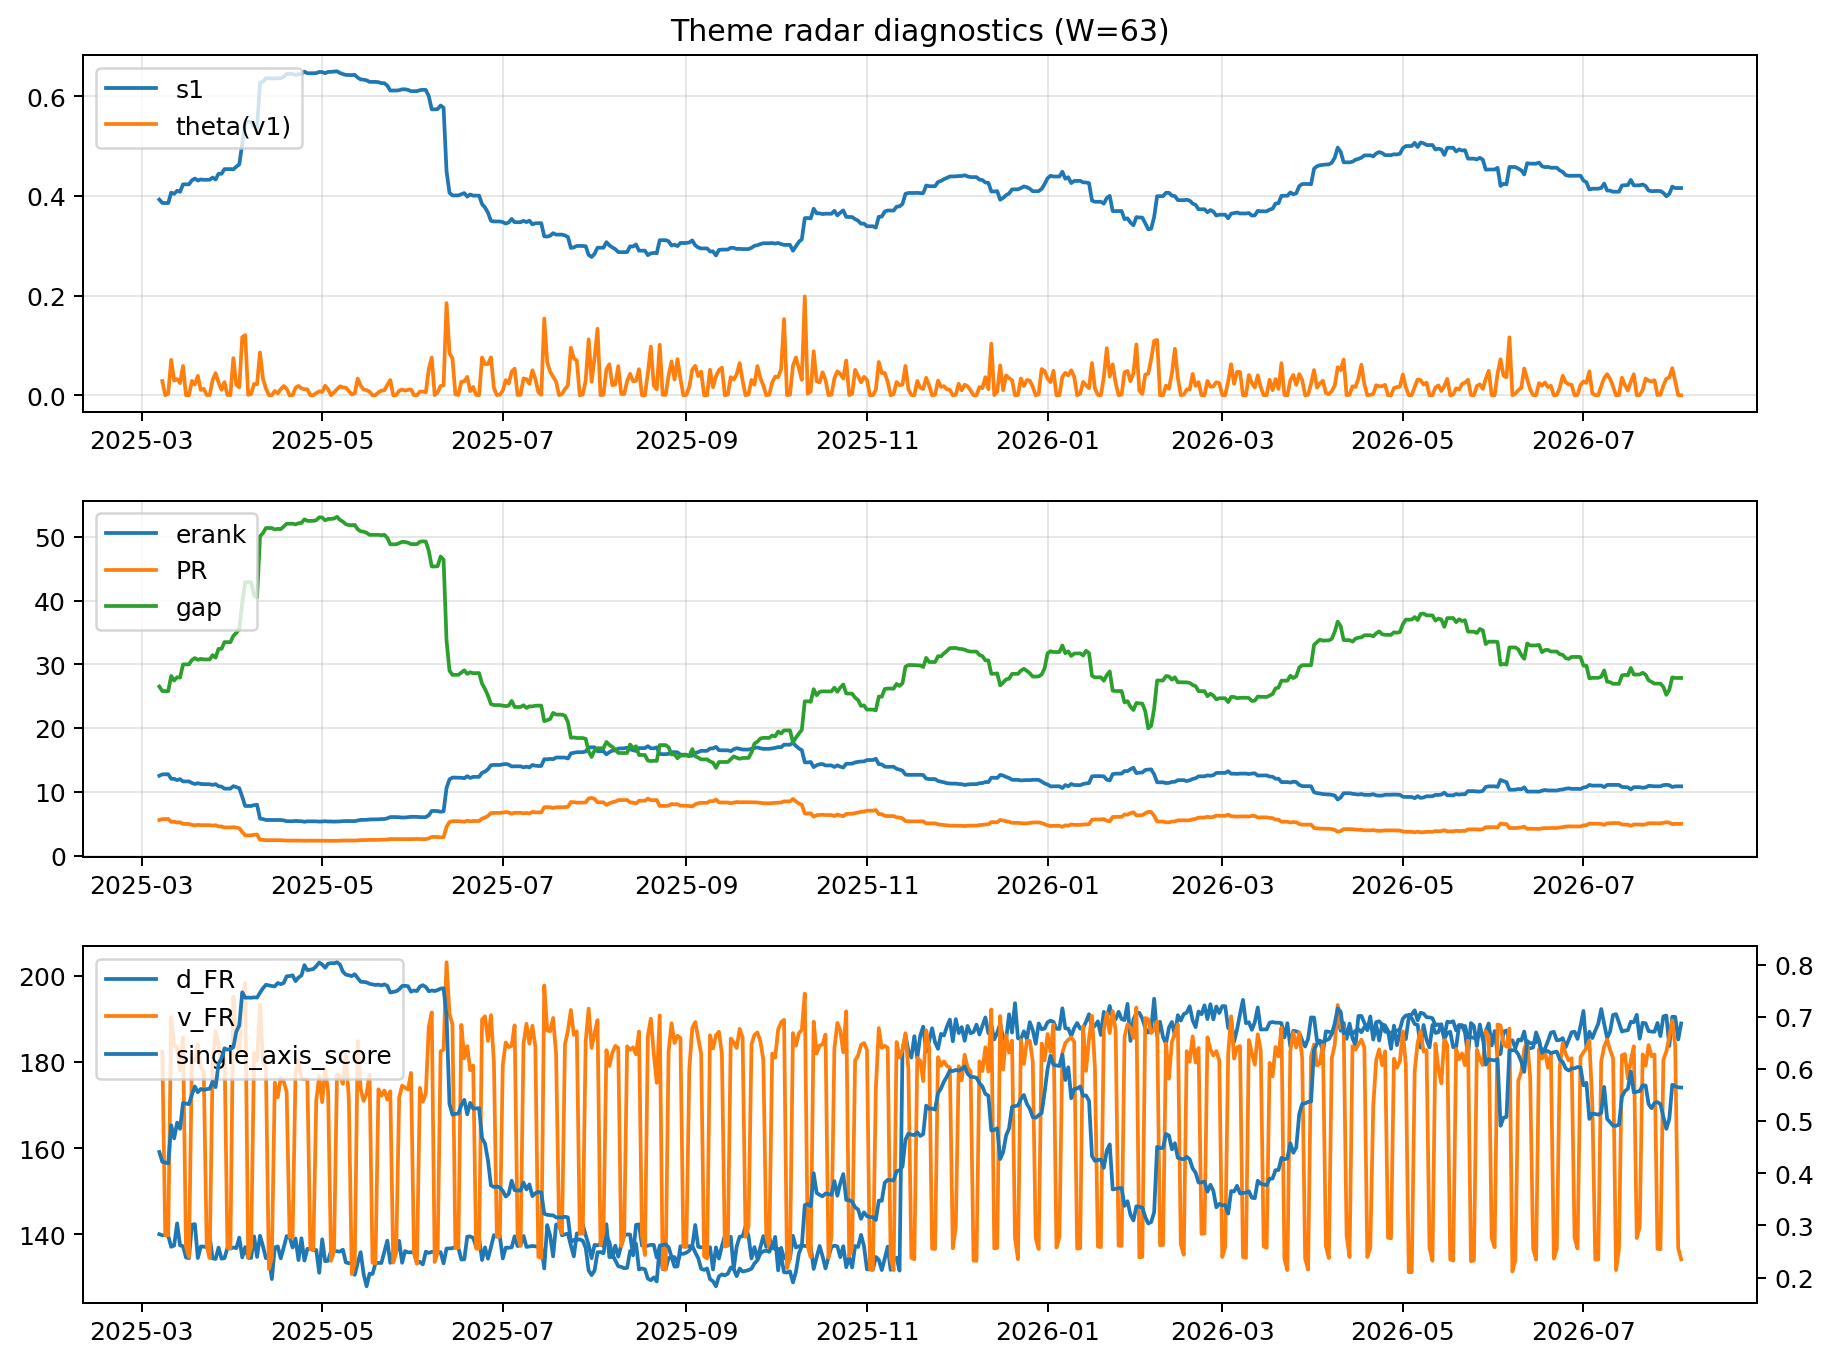
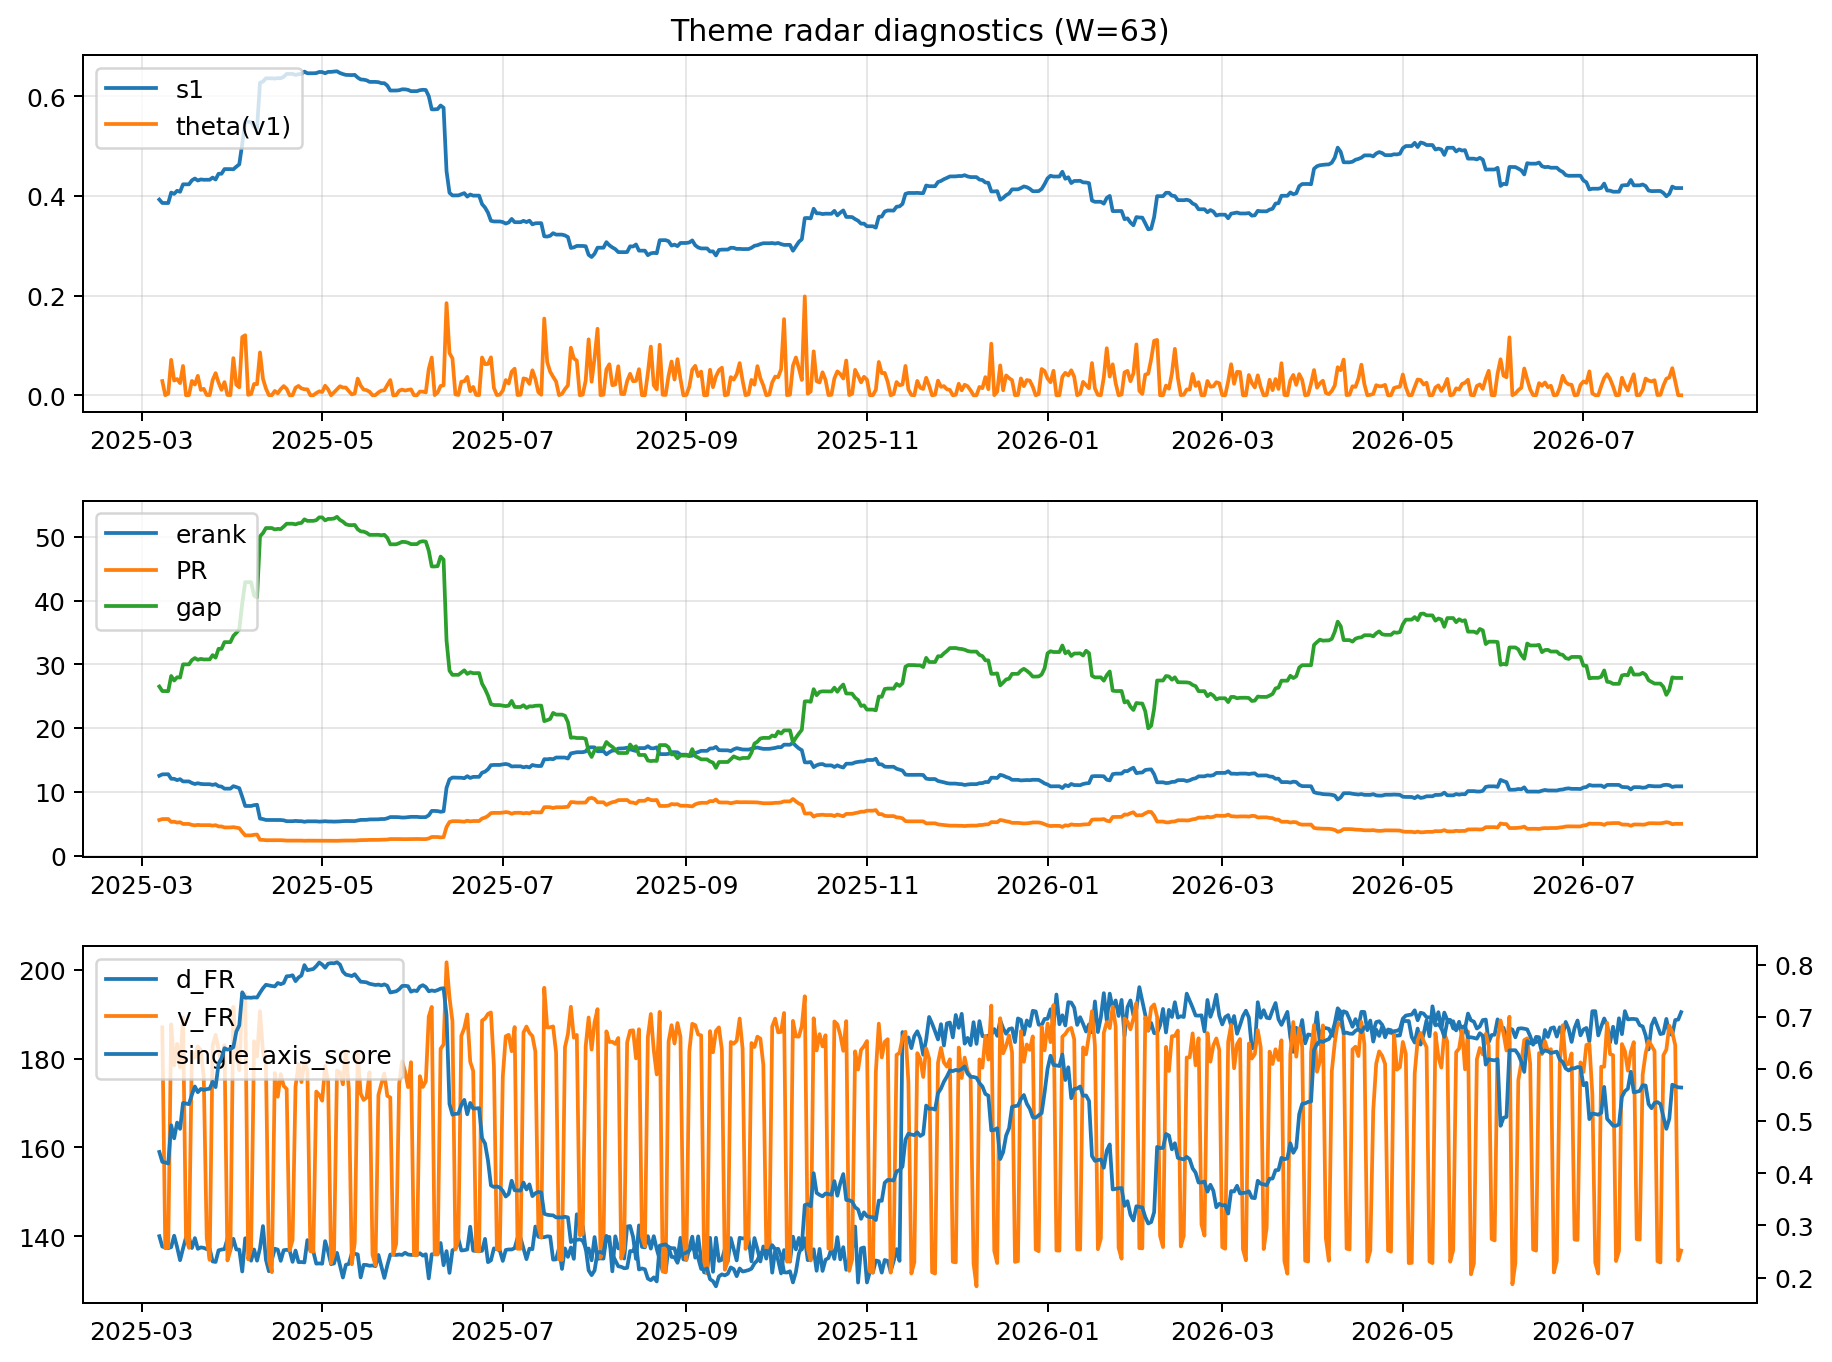
log: 2026-08-03 | sha256:3bb41f15b418b0f966da762d9f3341b5c8da024c01262de927e797b039bcb05f

diff --git a/logs/2026-08-03.md b/logs/2026-08-03.md
@@ -3,43 +3,43 @@
 ![diagnostic W63](../assets/diagnostic/2026-08-03_W63.png)
 
 ## Leaders (v1) — W=63
-- **Nuclear_Uranium** (0.0888138526258582)
-- Semis (0.0693234960326358)
-- Quantum (0.0581579446334187)
+- **Nuclear_Uranium** (0.0888138529249647)
+- Semis (0.0693234968832225)
+- Quantum (0.0581579449914897)
 
 ## Challengers — W=63
-**v2:** Semis (0.0851856289404431), Rates (0.0773399677122756), MegaCap_AI (0.0618166008543837)
-**v3:** Software_Cloud (0.1078968648098866), DataCenter_Infra (0.0745576534557131), MegaCap_AI (0.0652175782549772)
+**v2:** Semis (0.0851856291961446), Rates (0.0773399336892751), MegaCap_AI (0.0618166060542759)
+**v3:** Software_Cloud (0.1078968639252219), DataCenter_Infra (0.0745576693702665), MegaCap_AI (0.0652175886771903)
 
 ## Migration (20D slope) — W=63
 **Top risers:**
-- axis_Quantum: 0.0005756811073014
-- axis_Crypto: 0.0003002291153402
-- axis_Semis: 0.0002807843596201
-- axis_Space: 0.0002730133955445
-- axis_Nuclear_Uranium: 0.0002697497943346
-- axis_Sector_RealEstate: 0.0002215976414266
-- axis_Sector_Health: 0.0001156313173518
-- axis_Drones_Autonomy: 0.0001115718469643
-- axis_Sector_Utilities: 0.0001030129190621
-- axis_Robotics: 9.420078034132308e-05
+- axis_Quantum: 0.0005756812142678
+- axis_Crypto: 0.0003002294326484
+- axis_Semis: 0.0002807843298781
+- axis_Space: 0.0002730129945221
+- axis_Nuclear_Uranium: 0.0002697498733139
+- axis_Sector_RealEstate: 0.0002215976401211
+- axis_Sector_Health: 0.0001156313163989
+- axis_Drones_Autonomy: 0.0001115716538667
+- axis_Sector_Utilities: 0.0001030128021203
+- axis_Robotics: 9.42006189881436e-05
 
 **Top fallers:**
-- axis_Software_Cloud: -0.0001125172167947
-- axis_Defense: -0.0001556672085028
-- axis_Sector_ConsDisc: -0.0001766146668486
-- axis_Sector_Energy: -0.0001774425501782
-- axis_Sector_Comm: -0.0001916599098726
-- axis_Commodities: -0.0002404320982932
-- axis_Credit: -0.0002419661325166
-- axis_Sector_Materials: -0.0002429785487878
-- axis_DataCenter_Infra: -0.000265875125789
-- axis_Rates: -0.0008751171218265
+- axis_Software_Cloud: -0.0001125173841209
+- axis_Defense: -0.000155667418013
+- axis_Sector_ConsDisc: -0.0001766147050904
+- axis_Sector_Energy: -0.0001774424619923
+- axis_Sector_Comm: -0.0001916599770781
+- axis_Commodities: -0.0002404320188944
+- axis_Credit: -0.0002419662125625
+- axis_Sector_Materials: -0.0002429786099852
+- axis_DataCenter_Infra: -0.0002658750902119
+- axis_Rates: -0.0008751151425725
 
 ## Risk line (W=63)
-- s1: 0.4156775307119756
-- theta_v1: 5.3200138138354704e-05
-- v_FR: 134.26576468645328
+- s1: 0.4156775295014104
+- theta_v1: 5.320014231211447e-05
+- v_FR: 136.7527022368078
 - single_axis_score: 0.5642718446601942
 
 ## Interpretation
@@ -48,7 +48,7 @@
 - Action: Tomorrow watchlist: Quantum, Crypto, Semis, Space, Nuclear_Uranium + v2_top1=Semis
 - Action: Hedge note: normal correlation stability.
 
-- Percentiles (W=63 history): vfr_pct=0.07, theta_pct=0.03, s1_pct=0.53, score_pct=0.61.
+- Percentiles (W=63 history): vfr_pct=0.16, theta_pct=0.03, s1_pct=0.53, score_pct=0.61.
 
 ---
[2 lines of base64/hex data omitted]
